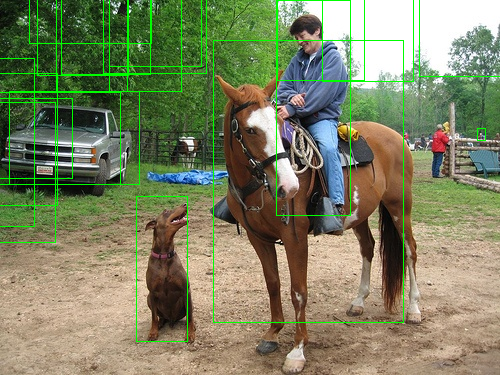
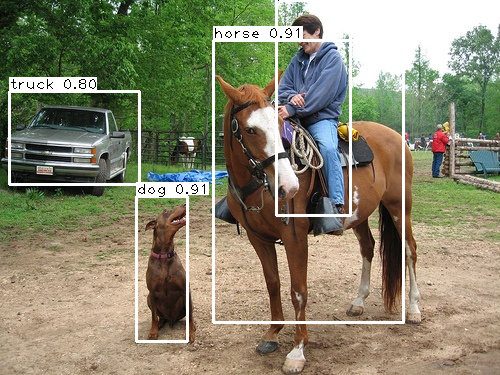
updated: 1. add classes file 2. add name of class in box

Changed region(s): [[0.0, 0.0, 0.84, 0.9387], [0.3, 0.0, 0.33, 0.1173], [0.06, 0.088, 0.15, 0.1173]]

diff --git a/object-detection-vino.py b/object-detection-vino.py
@@ -7,13 +7,27 @@
 #  Website: sinaungoding.com
 
 import cv2 as cv
+import os
+
+# Load class txt
+LABELS = open("classes.txt").read().strip().split("\n")
+
 # Load the model.
 net = cv.dnn.readNet('frozen_inference_graph.xml',
                      'frozen_inference_graph.bin')
 # Specify target device.
 net.setPreferableTarget(cv.dnn.DNN_TARGET_MYRIAD)
+
+font_scale = 1
+font = cv.FONT_HERSHEY_PLAIN
+rectangle_bgr = (255, 255, 255)
+
 # Read an image.
 frame = cv.imread('objects.jpg')
+
+rows = frame.shape[0]
+cols = frame.shape[1]
+
 # Prepare input blob and perform an inference.
 blob = cv.dnn.blobFromImage(frame, size=(672, 384), ddepth=cv.CV_8U)
 net.setInput(blob)
@@ -21,11 +35,26 @@ out = net.forward()
 # Draw detected faces on the frame.
 for detection in out.reshape(-1, 7):
     confidence = float(detection[2])
-    xmin = int(detection[3] * frame.shape[1])
-    ymin = int(detection[4] * frame.shape[0])
-    xmax = int(detection[5] * frame.shape[1])
-    ymax = int(detection[6] * frame.shape[0])
-    if confidence > 0.5:
-        cv.rectangle(frame, (xmin, ymin), (xmax, ymax), color=(0, 255, 0))
+    class_id = int(detection[1])
+    left = detection[3] * cols
+    top = detection[4] * rows
+    right = detection[5] * cols
+    bottom = detection[6] * rows
+    if confidence > 0.8:
+        left = detection[3] * cols
+        top = detection[4] * rows
+        right = detection[5] * cols
+        bottom = detection[6] * rows
+        text = "{} {:.2f}".format(LABELS[class_id], confidence)
+
+        (text_width, text_height) = cv.getTextSize(text, font, fontScale=font_scale, thickness=1)[0]
+        text_offset_x = int(left)
+        text_offset_y = int(top) - 2
+        box_coord = ((text_offset_x, text_offset_y), (text_offset_x + text_width-2, text_offset_y - text_height - 2))
+
+        cv.rectangle(frame, (int(left), int(top)), (int(right), int(bottom)), (255, 255, 255), thickness=2)
+        cv.rectangle(frame, box_coord[0], box_coord[1], rectangle_bgr, cv.FILLED)
+        cv.putText(frame, text, (text_offset_x, text_offset_y), font, fontScale=font_scale, color=(0, 0, 0),thickness=1)
+
 # Save the frame to an image file.
 cv.imwrite('out.png', frame)
